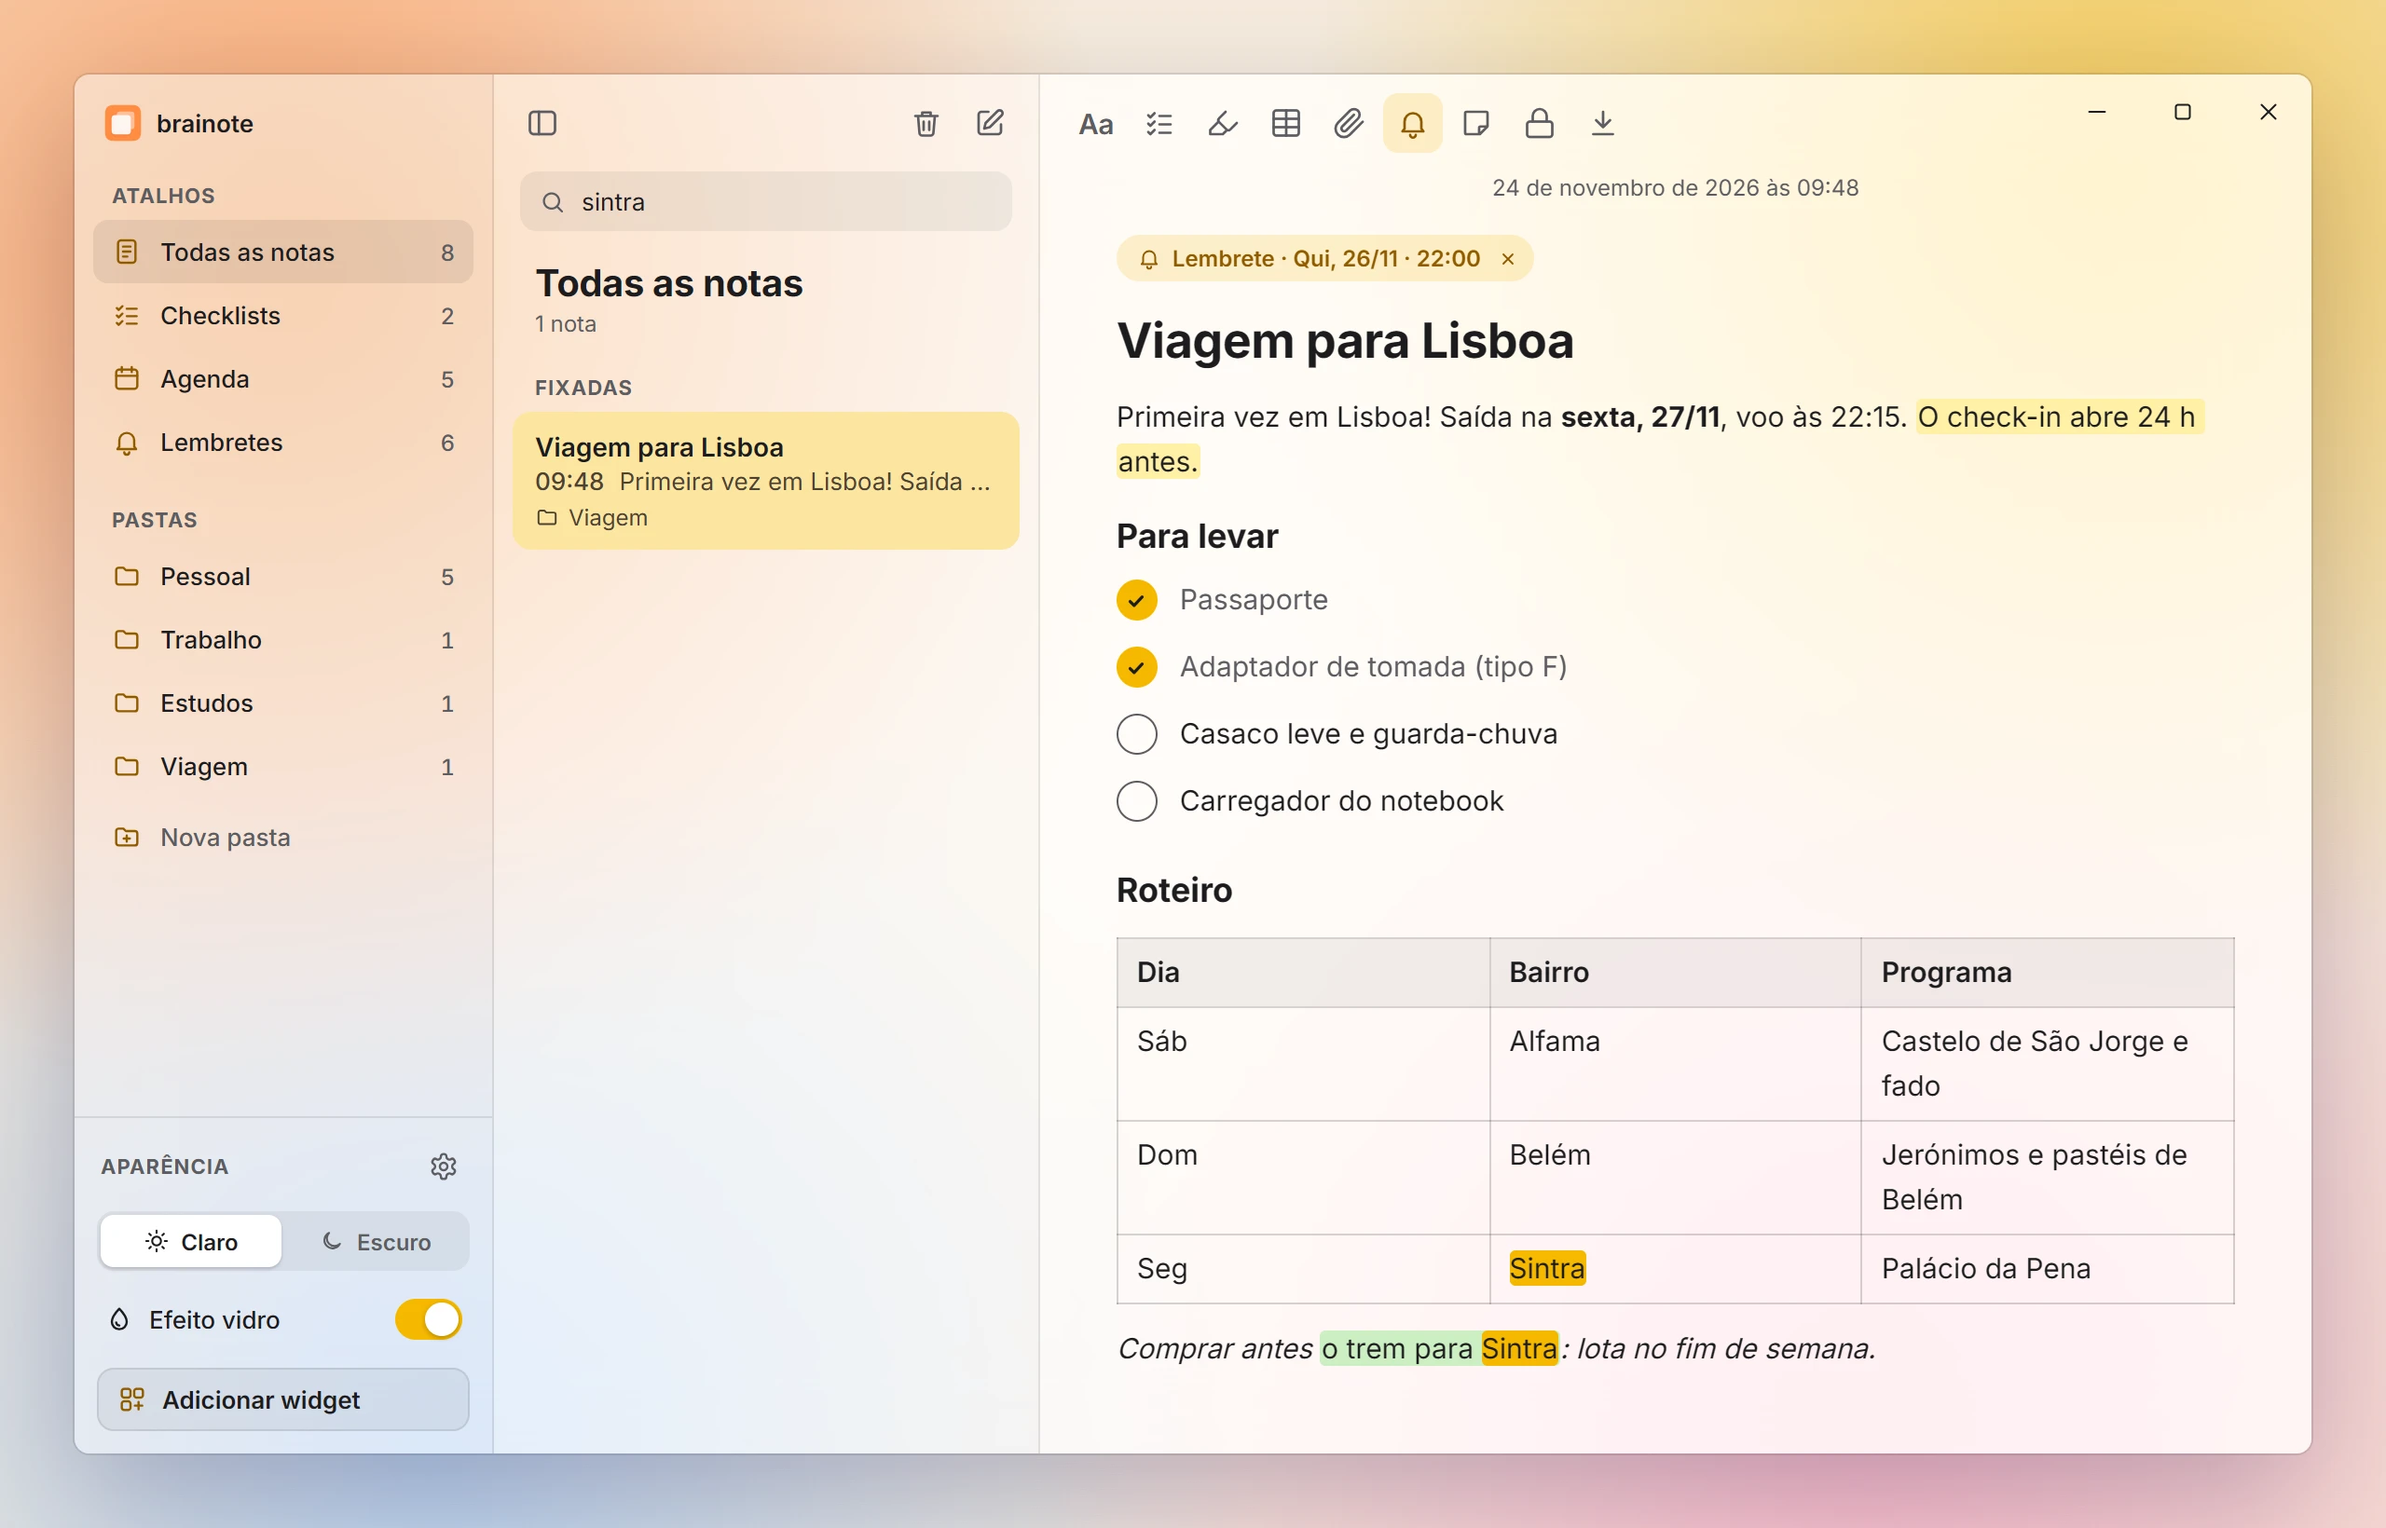
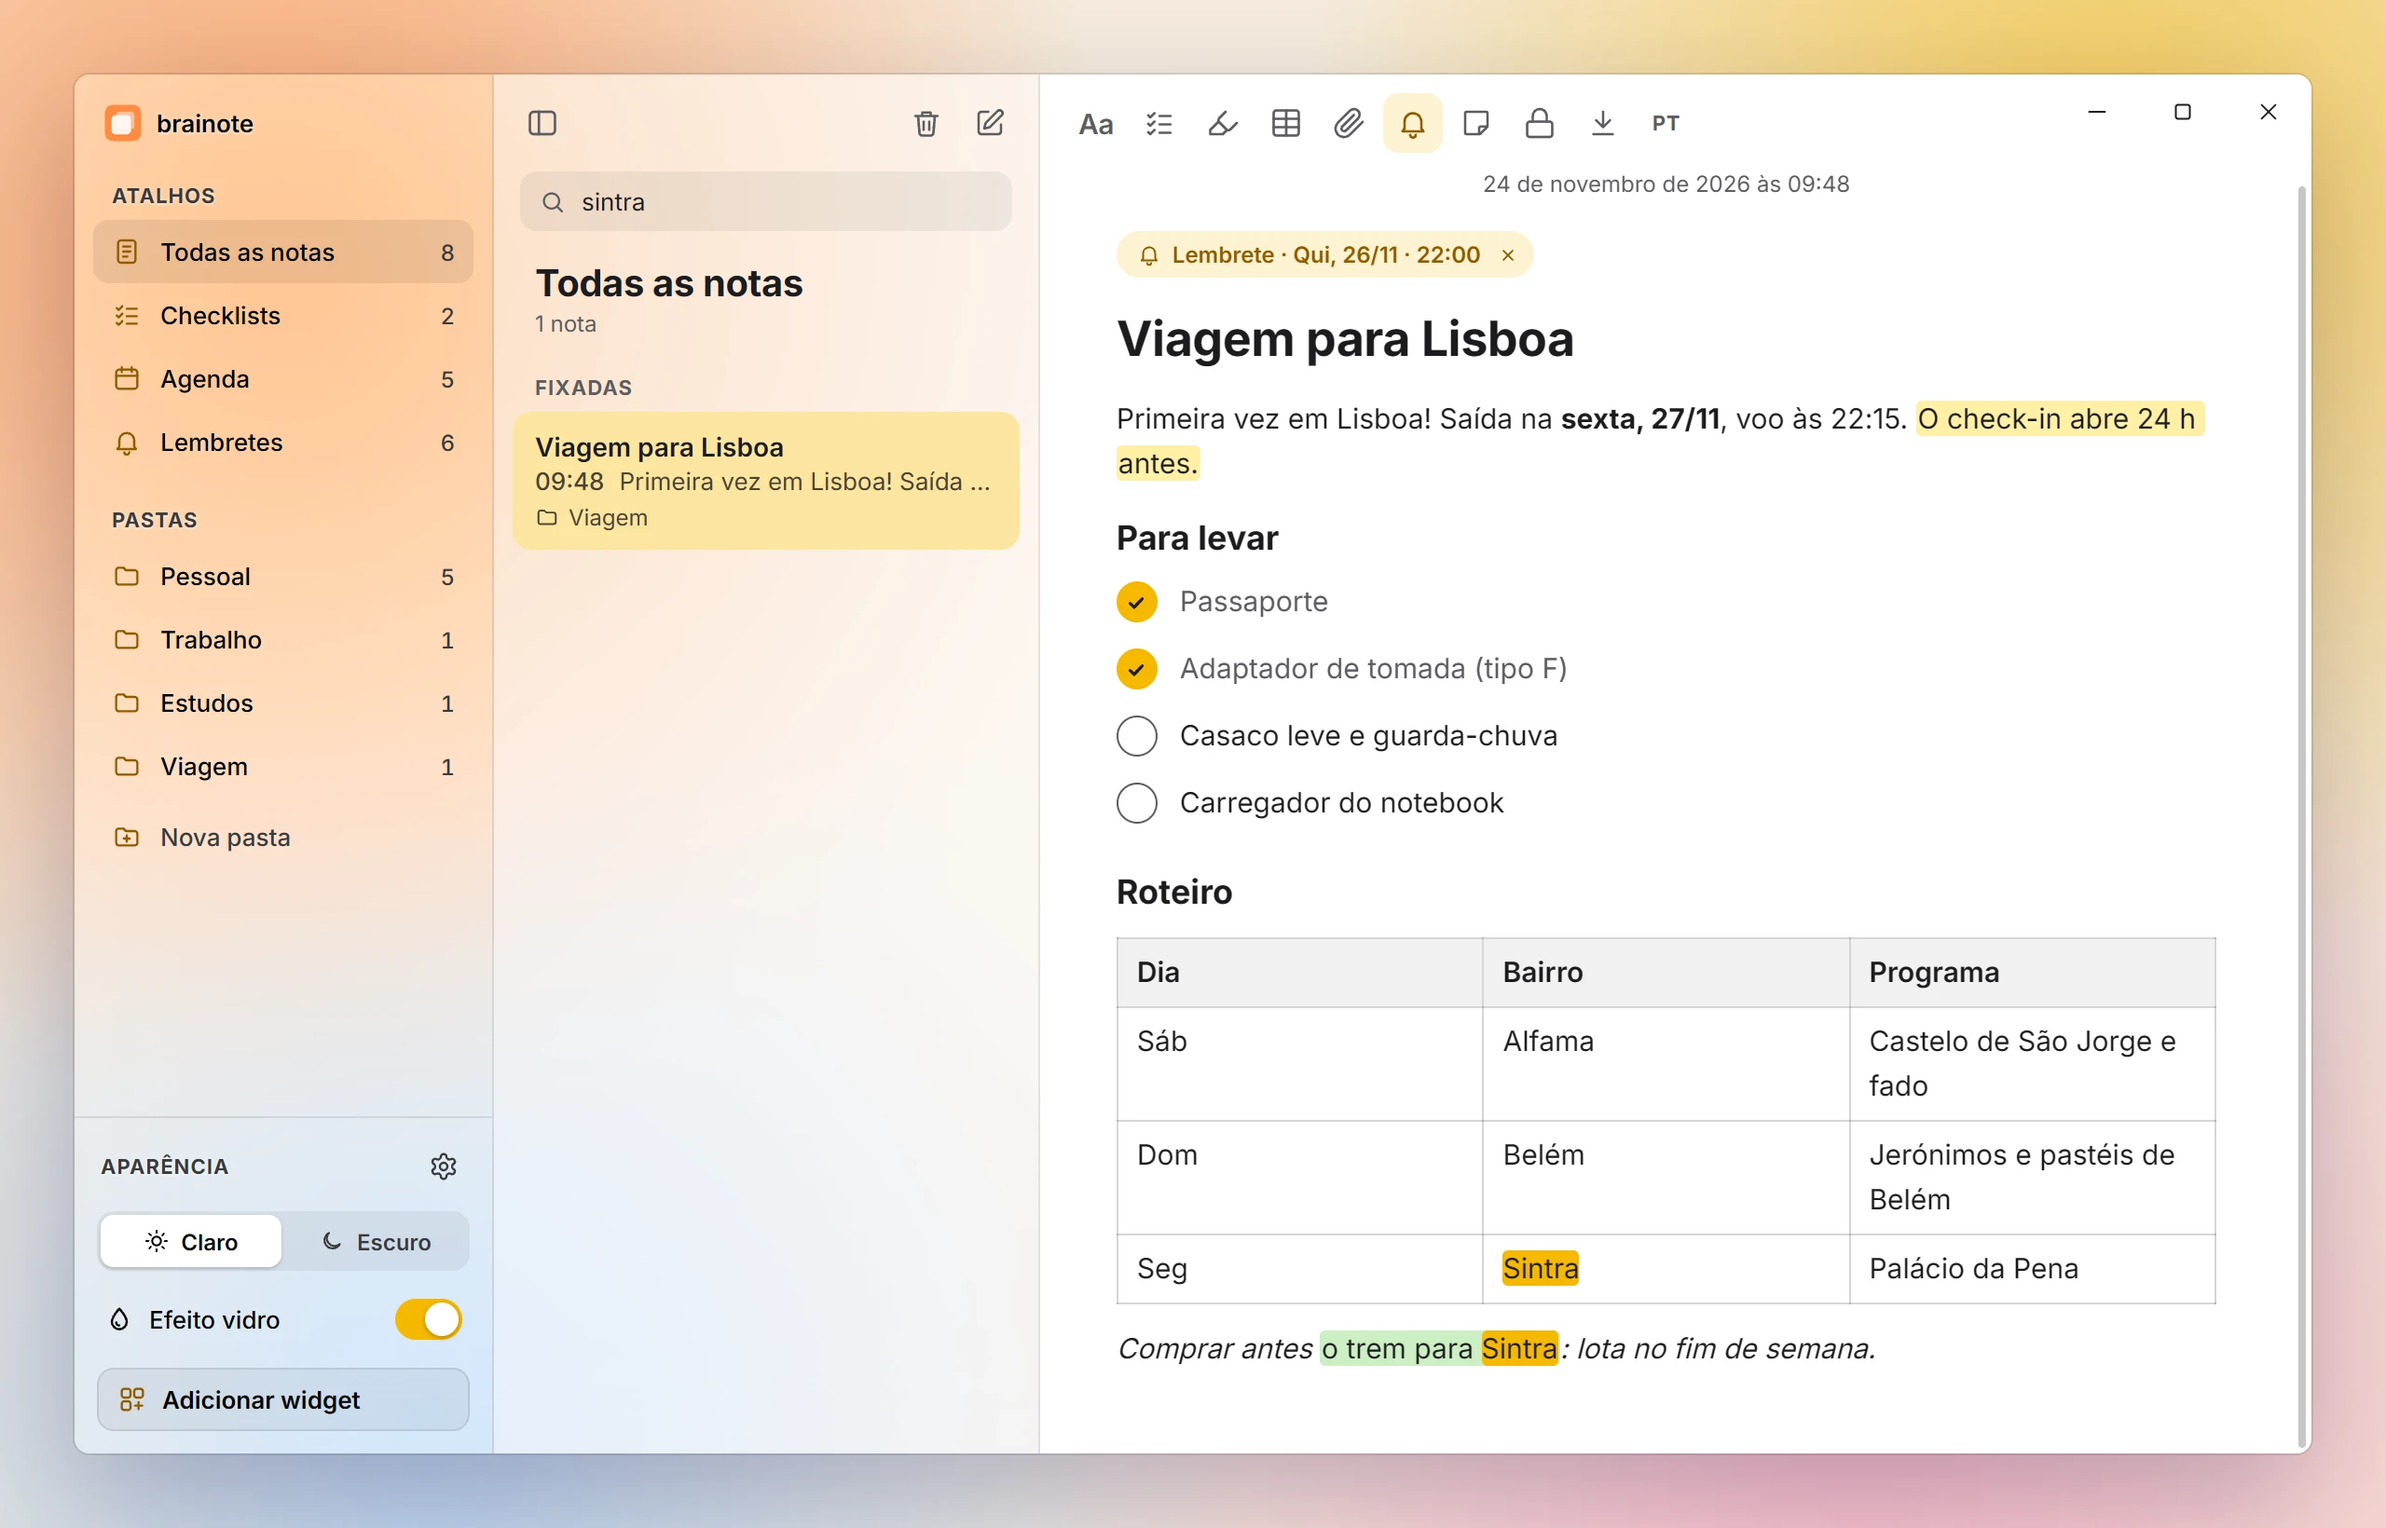
readme: versão 1.3, com fotos novas do vidro, do corretor e do menu dos widgets
- fotos refeitas nos temas claro e escuro com o visual da 1.3 (dados de exemplo)
- galeria ganha o corretor com sugestões e o menu do botão direito dos widgets
- texto atualizado: vidro novo, corretor do Windows, idioma por nota, "Trocar nota…", versões 1.3 e 1.4

diff --git a/README.md b/README.md
@@ -12,7 +12,7 @@
 <p>Tudo fica no seu computador: sem nuvem, sem login e sem telemetria.</p>
 
 ![Windows 11](https://img.shields.io/badge/Windows-11-FF8C42?style=flat-square&labelColor=1C1C1E)
-![Versão 1.2.0](https://img.shields.io/badge/vers%C3%A3o-1.2.0-F5B800?style=flat-square&labelColor=1C1C1E)
+![Versão 1.3.0](https://img.shields.io/badge/vers%C3%A3o-1.3.0-F5B800?style=flat-square&labelColor=1C1C1E)
 ![Tauri 2](https://img.shields.io/badge/Tauri-2-F5B800?style=flat-square&labelColor=1C1C1E)
 ![React 19](https://img.shields.io/badge/React-19-F5B800?style=flat-square&labelColor=1C1C1E)
 ![Rust](https://img.shields.io/badge/Rust-backend-F5B800?style=flat-square&labelColor=1C1C1E)
@@ -65,7 +65,7 @@ O brainote é um app pessoal de notas para o Windows 11, com o visual e a simpli
     <td valign="top">
       <img src="docs/imagens/icones/vidro.svg" width="44" height="44" alt="">
       <h3>Efeito vidro</h3>
-      Tema claro ou escuro com o Acrylic do Windows 11, que continua ativo mesmo quando a janela perde o foco.
+      Barra lateral bem transparente, lista translúcida e editor sólido, nos temas claro e escuro. O vidro não apaga quando a janela perde o foco.
     </td>
   </tr>
 </table>
@@ -105,6 +105,22 @@ O brainote é um app pessoal de notas para o Windows 11, com o visual e a simpli
       <p align="center"><b>Nota trancada</b><br><sub>Só o título fica visível até digitar a senha.</sub></p>
     </td>
   </tr>
+  <tr>
+    <td width="50%" valign="top">
+      <picture>
+        <source media="(prefers-color-scheme: dark)" srcset="docs/imagens/corretor-escuro.webp">
+        <img src="docs/imagens/corretor-claro.webp" width="100%" alt="Palavra errada sublinhada numa nota e o menu do botão direito com as sugestões equipe, equipa e equipei">
+      </picture>
+      <p align="center"><b>Corretor</b><br><sub>O do próprio Windows para o português, com sugestões no botão direito.</sub></p>
+    </td>
+    <td width="50%" valign="top">
+      <picture>
+        <source media="(prefers-color-scheme: dark)" srcset="docs/imagens/widgets-escuro.webp">
+        <img src="docs/imagens/widgets-claro.webp" width="100%" alt="Post-it, checklist e agenda de hoje na área de trabalho, com o menu do botão direito aberto no post-it: Abrir no brainote, Trocar nota, Manter por cima e Remover">
+      </picture>
+      <p align="center"><b>Widgets</b><br><sub>O mesmo menu do app no botão direito, com "Trocar nota…".</sub></p>
+    </td>
+  </tr>
 </table>
 
 ## Tudo o que o brainote faz
@@ -119,13 +135,15 @@ O brainote é um app pessoal de notas para o Windows 11, com o visual e a simpli
 
 ### Editor
 - Menu **Aa**: título, subtítulo, corpo, lista com marcadores, lista numerada, negrito, itálico, sublinhado e riscado.
-- **Marca-texto** em tons pastel (azul, amarelo, verde, vermelho e laranja). O **modo caneta** marca cada trecho arrastado, e a **borracha** tira a marca do mesmo jeito.
+- **Marca-texto** em tons pastel (azul, amarelo, verde, vermelho e laranja). O **modo caneta** marca cada trecho arrastado, e a **borracha** tira a marca do mesmo jeito. Nos dois, o cursor de texto mostra a cor da ferramenta, para você ver onde a marca começa.
 - **Checklists**: o item marcado fica no mesmo lugar. Enter cria outro item, Enter num item vazio sai do checklist e Ctrl+Enter marca ou desmarca.
 - **Tabelas**: Tab anda entre as células (na última, cria uma linha). Com o botão direito você adiciona ou remove linhas e colunas, e arrastando a borda muda a largura.
 - **Imagens** (PNG, JPG, GIF, WebP e BMP): pelo clipe da barra, arrastando do Explorador ou colando com Ctrl+V, inclusive print de tela. O canto de baixo muda o tamanho sem distorcer.
 - **Anexos** de qualquer tipo, até 100 MB por arquivo. Clicar abre no programa padrão do Windows, e o botão direito oferece "Salvar como…" e "Remover".
 - **Exportar a nota** em `.md` ou `.txt`, levando junto uma pasta com as imagens e os anexos.
-- **Corretor ortográfico** em português do Brasil e inglês, sem internet, com sugestões no botão direito. A **correção automática** é opcional e o Ctrl+Z desfaz a troca.
+- **Corretor ortográfico**, sem internet: o português usa o corretor do próprio Windows (o mesmo do Edge e do Teams), e o inglês, um dicionário que vem no app. Uma palavra certa em qualquer um dos dois idiomas não fica sublinhada. Sugestões no botão direito, no texto e no título.
+- Botão **PT/EN** na barra do editor: escolhe o idioma principal de cada nota, de onde vêm primeiro as sugestões.
+- **Correção automática** ligada (dá para desligar nas Configurações): "voce" vira "você" e "concerteza" vira "com certeza" ao digitar o espaço. No texto da nota, o Ctrl+Z desfaz a troca.
 
 ### Busca
 - Procura no título e no conteúdo, pelo começo das palavras e sem diferenciar acentos.
@@ -152,15 +170,16 @@ O brainote é um app pessoal de notas para o Windows 11, com o visual e a simpli
 
 ### Widgets na área de trabalho
 - **Post-it** de uma nota, em 4 cores (amarelo, verde, rosa e azul), com checklist marcável e imagens. Um duplo clique abre a nota no app.
-- **Checklist** com "X de Y concluídas" e barra de progresso.
+- **Checklist** com "X de Y concluídas" e barra de progresso. É o único widget com efeito vidro; post-it e agenda ficam com cor sólida.
 - **Agenda de hoje** com os próximos 4 compromissos e lembretes do dia.
 - Cada widget é uma janela própria, fora da barra de tarefas, que fica no fundo da área de trabalho ou por cima das janelas. A posição e o tamanho ficam salvos.
+- Botão direito no widget: o mesmo menu do app, com **Abrir no brainote**, **Trocar nota…** (escolhe outra nota para o post-it ou o checklist), **Manter por cima** e **Remover**.
 - Marcar um item no widget marca na nota, e o contrário também.
 - Com **Win+D**, os widgets continuam visíveis na frente da área de trabalho.
 
 ### Aparência
 - Tema **claro** ou **escuro**, com o amarelo de destaque e a fonte Inter já incluída no app.
-- **Efeito vidro** com o Acrylic do Windows 11, que liga e desliga na hora. Ele continua ativo quando você clica em outra janela.
+- **Efeito vidro** com o acrílico clássico do Windows (o mesmo efeito do TranslucentRM, do Rainmeter), que liga e desliga na hora. A barra lateral é sempre a coluna mais transparente, a lista de notas fica translúcida e o editor sólido. O vidro continua igual quando você clica em outra janela.
 - Barras de rolagem, listas suspensas e seletores próprios, nas cores do tema.
 
 ### Bandeja e inicialização
@@ -193,7 +212,7 @@ O instalador é gerado a partir do código e instala **só para o seu usuário**
    npm run tauri build
    ```
 
-3. Abra o instalador gerado em `src-tauri\target\release\bundle\nsis\brainote_1.2.0_x64-setup.exe`.
+3. Abra o instalador gerado em `src-tauri\target\release\bundle\nsis\brainote_1.3.0_x64-setup.exe`.
 
 > [!NOTE]
 > O executável não tem assinatura digital. Na primeira vez, o SmartScreen pode avisar: clique em **Mais informações** e depois em **Executar assim mesmo**.
@@ -204,7 +223,7 @@ O instalador é gerado a partir do código e instala **só para o seu usuário**
 |---|---|
 | `npm run tauri dev` | Abre o app em modo de desenvolvimento, que recarrega a cada mudança. Feche o brainote instalado antes. |
 | `npm test` | Roda os testes da interface: datas, conteúdo das notas, corretor e destaque da busca. |
-| `cargo test` (dentro de `src-tauri`) | Roda os testes do backend: banco, lembretes, criptografia, backup e anexos. |
+| `cargo test` (dentro de `src-tauri`) | Roda os testes do backend: banco, lembretes, criptografia, backup, anexos e corretor. |
 | `npm run tauri build` | Gera o instalador em `src-tauri/target/release/bundle/`. |
 
 ### Como é feito
@@ -215,7 +234,7 @@ O instalador é gerado a partir do código e instala **só para o seu usuário**
 | Interface | React 19, TypeScript e Vite, com CSS puro e variáveis de tema |
 | Editor | [TipTap 3](https://tiptap.dev/), com listas de tarefas, tabelas, imagens e marca-texto |
 | Banco | SQLite com `rusqlite`, migrações versionadas e busca FTS5 |
-| Corretor | Dicionários Hunspell conferidos no Rust com o crate `spellbook` |
+| Corretor | Corretor do Windows (Spell Checking API) para o português e dicionário Hunspell com o crate `spellbook` para o inglês |
 | Criptografia | `argon2` e `chacha20poly1305` |
 | Sistema | Plugins oficiais do Tauri (instância única, iniciar com o Windows, diálogos e posição da janela) e notificações nativas do Windows |
 
@@ -225,6 +244,7 @@ O instalador é gerado a partir do código e instala **só para o seu usuário**
 src/                  interface (React)
   App.tsx             janela principal: barra lateral, lista e editor
   Editor.tsx          editor TipTap e a barra de ferramentas
+  TitleField.tsx      título da nota com o corretor
   Agenda.tsx          calendário do mês e o painel do dia
   Reminders.tsx       tela de lembretes
   Widget.tsx          post-it, checklist e agenda de hoje
@@ -238,7 +258,8 @@ src-tauri/src/        backend (Rust)
   widgets.rs          janelas dos widgets
   desktop.rs          efeito vidro e Win+D
   attachments.rs      imagens e anexos
-  spell.rs            corretor ortográfico
+  spell.rs            corretor ortográfico (português e inglês)
+  winspell.rs         corretor do Windows para o português
 docs/
   ESPECIFICACAO.md    o que o app faz, em detalhe
   TESTES.md           roteiro de testes de cada versão
@@ -251,12 +272,13 @@ docs/
 | **1.0** | Notas e pastas, checklists, lembretes com notificação, agenda, widgets, tema claro e escuro, efeito vidro, bandeja e backup. |
 | **1.1** | Post-it sempre claro, rolagem e listas próprias, seletores de data e hora, repetição por dias da semana, exportar nota, arrastar notas para pastas, marca-texto, corretor e correção automática. |
 | **1.2** | Imagens e anexos, backup em `.zip`, destaque da busca, vidro sem foco, tabelas e notas com senha. |
-| **1.3** *(planejada)* | Agenda externa: mostrar um calendário do Outlook ou do Google pelo link ICS, só para leitura. |
+| **1.3** | Vidro novo (barra lateral mais transparente, lista translúcida e editor sólido), menu e troca de nota nos widgets, Win+D e Win+V corrigidos, corretor do Windows para o português, idioma por nota, correção no título e cursor de texto. |
+| **1.4** *(planejada)* | Agenda externa: mostrar um calendário do Outlook ou do Google pelo link ICS, só para leitura. |
 
 ## Créditos
 
 - Fonte [Inter](https://rsms.me/inter/), licença SIL Open Font License.
-- Dicionário pt-BR do projeto VERO/LibreOffice (LGPL-3.0 ou MPL-2.0) e dicionário en-US do SCOWL (MIT e BSD), pelo pacote [wooorm/dictionaries](https://github.com/wooorm/dictionaries). As licenças estão em `src-tauri/dicionarios/`.
+- Dicionário pt-BR do projeto VERO/LibreOffice (LGPL-3.0 ou MPL-2.0; usado quando o Windows não tem o corretor de português) e dicionário en-US do SCOWL (MIT e BSD), pelo pacote [wooorm/dictionaries](https://github.com/wooorm/dictionaries). As licenças estão em `src-tauri/dicionarios/`.
 
 <br>
 
